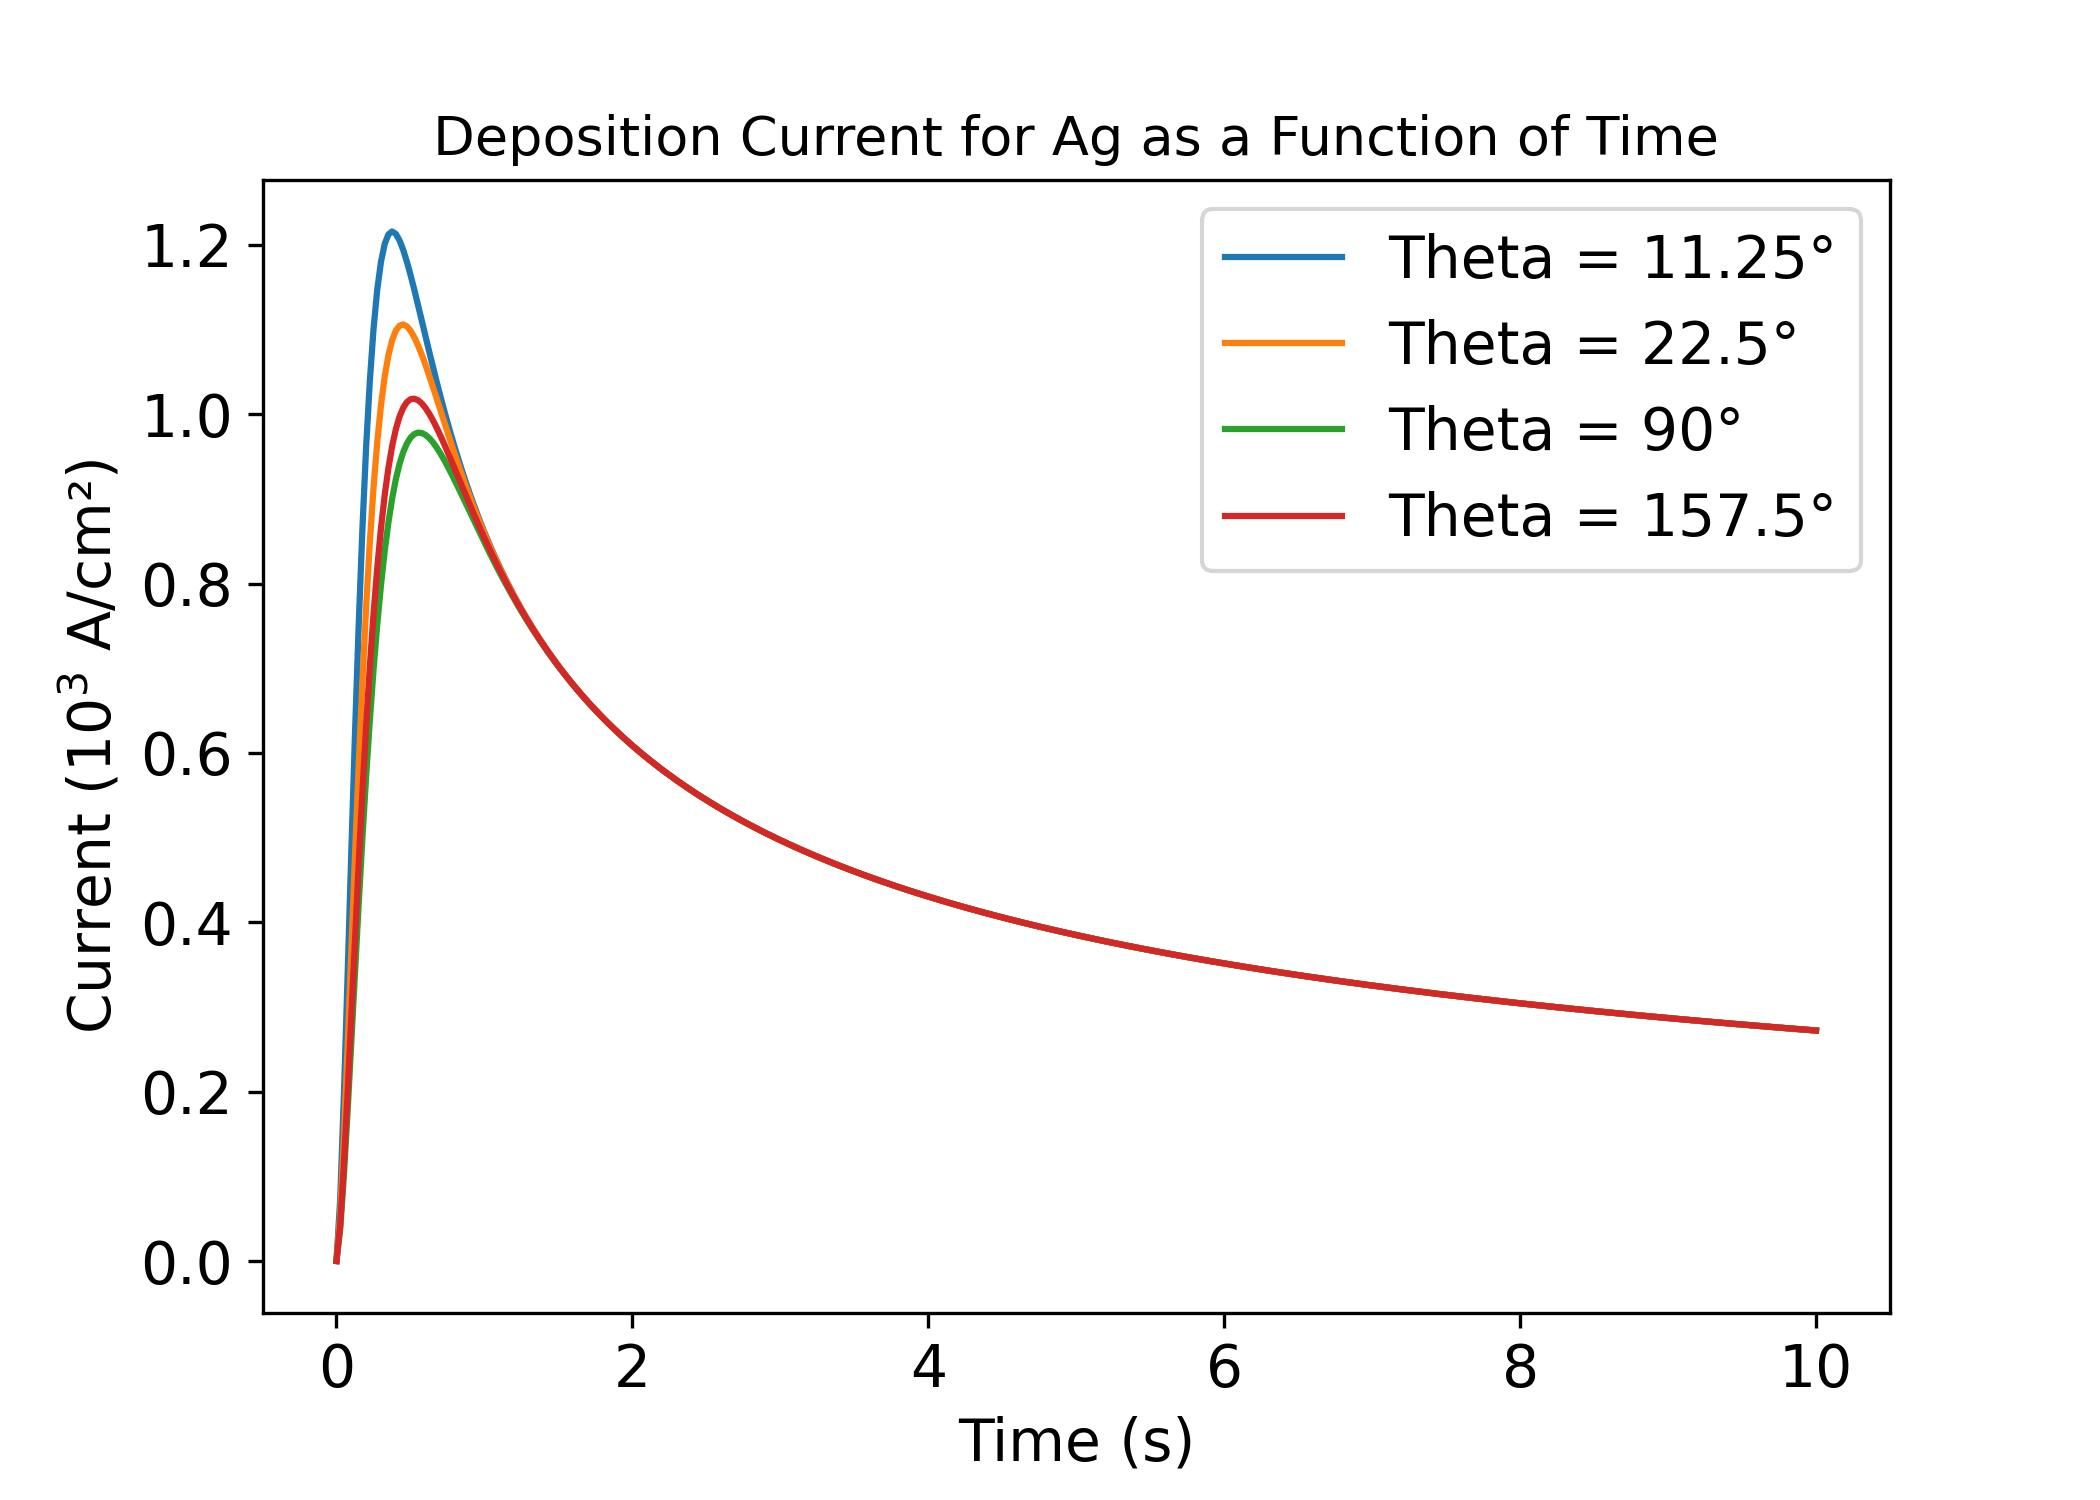
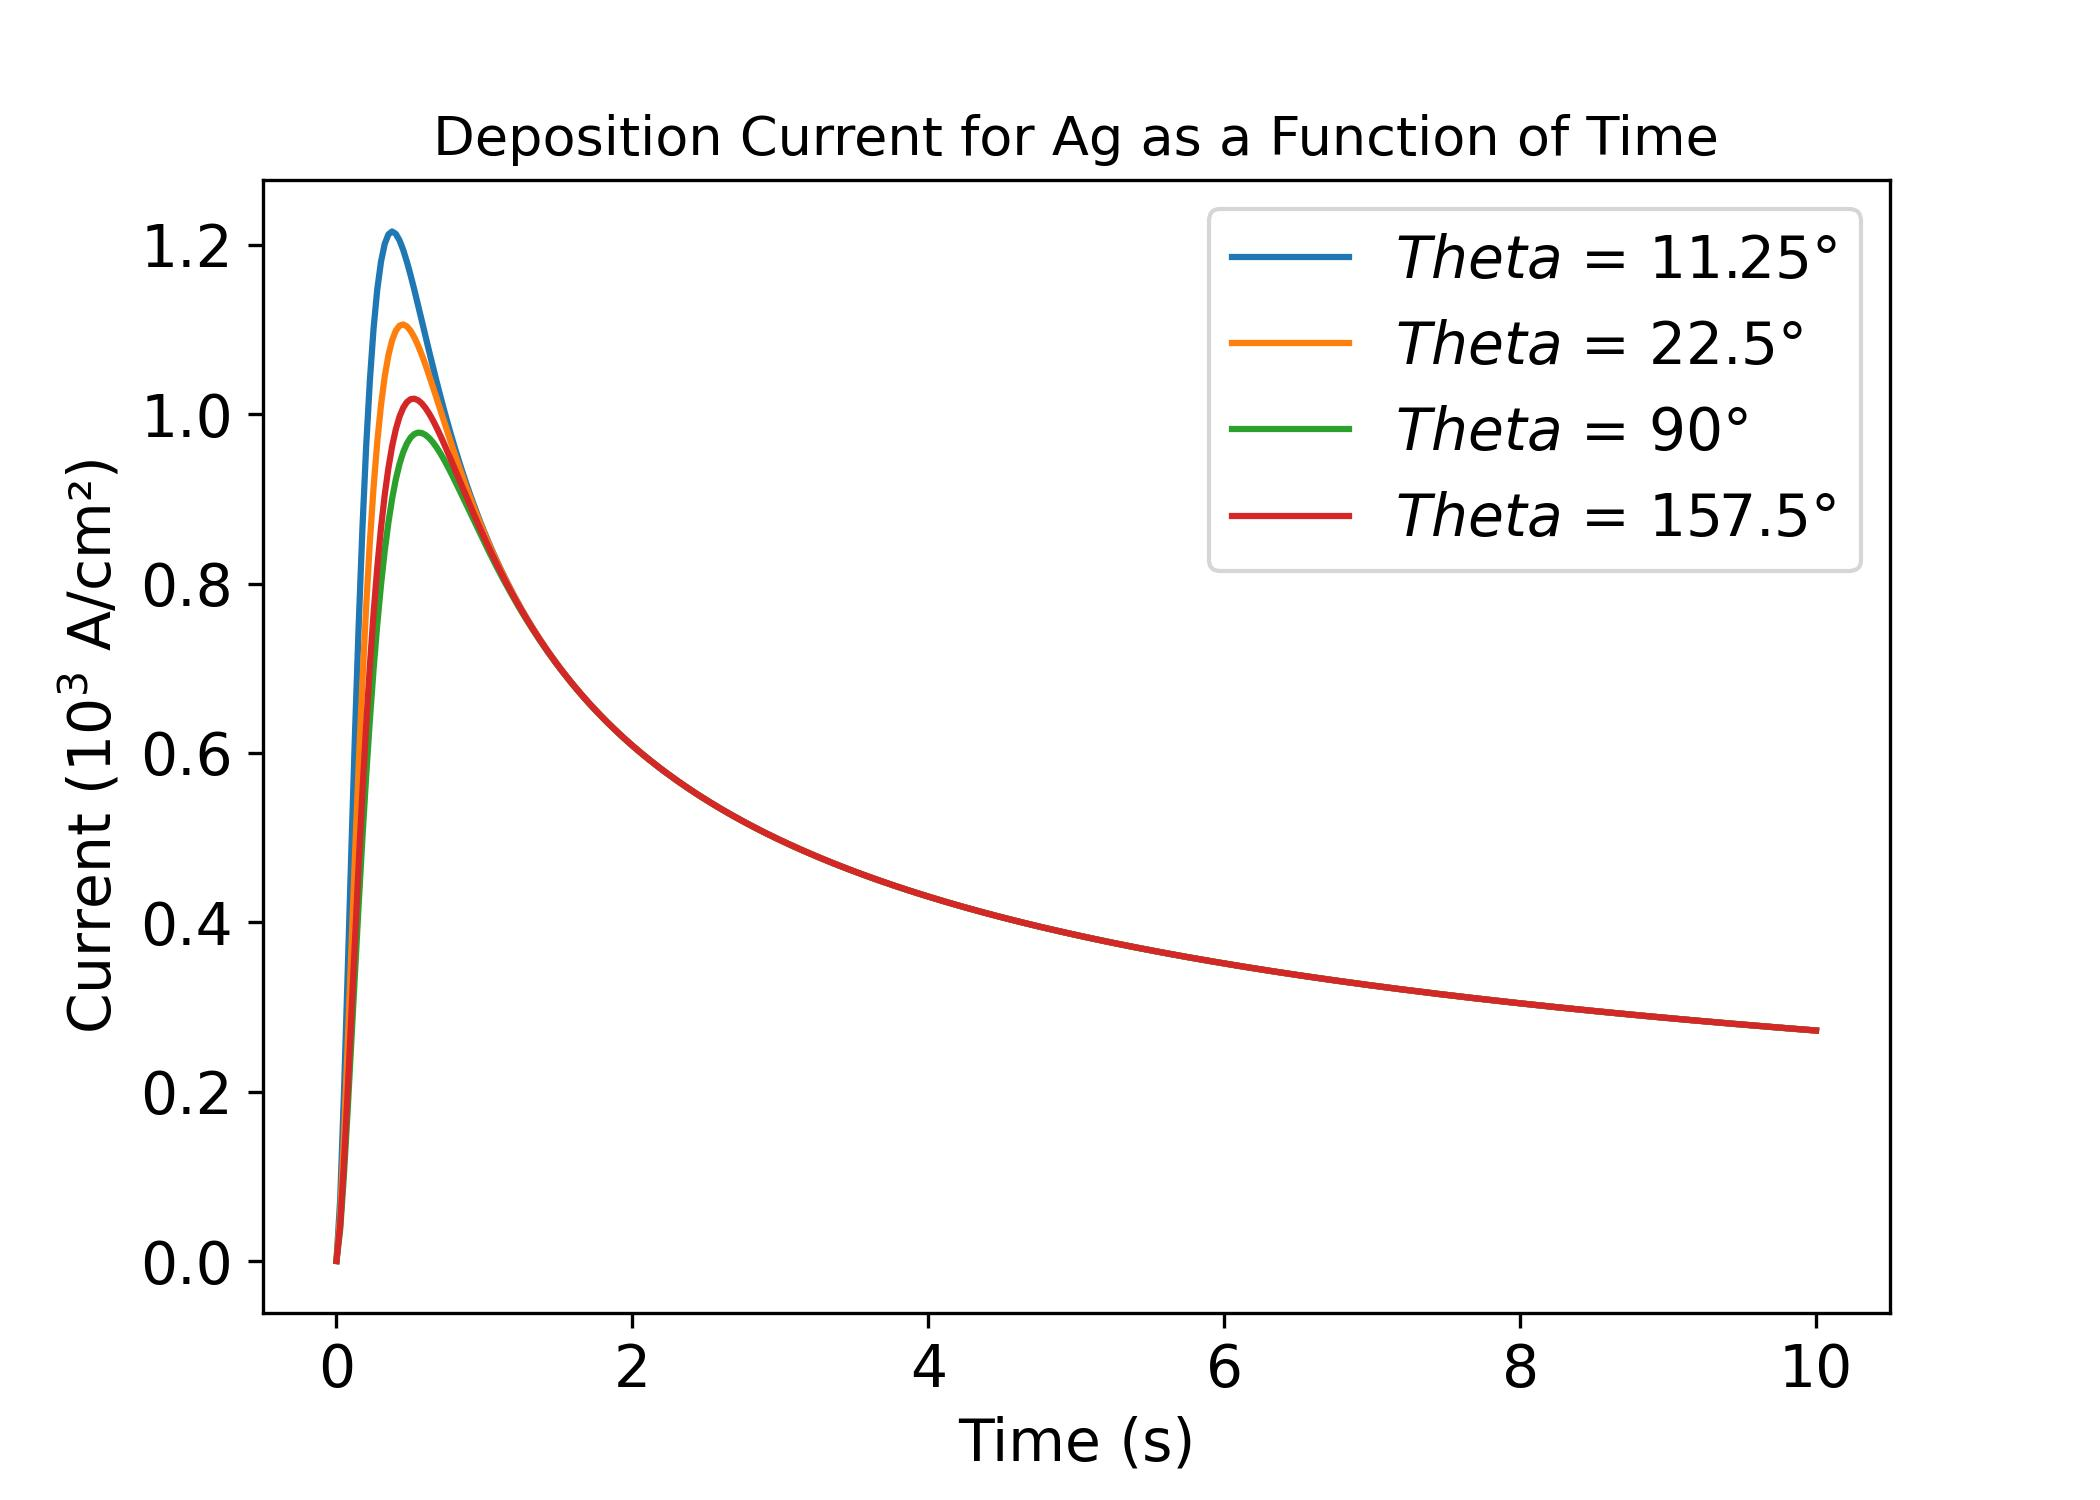
adding a few updates

diff --git a/Current_transient_AgLiMg.py b/Current_transient_AgLiMg.py
@@ -102,7 +102,7 @@ for element in elements_to_plot:
     plt.figure(figsize=(7, 5))
     for theta, theta_rad in zip(theta_degrees, theta_radians):
         current = [compute_current_eq15(element, theta_rad, t) for t in t_values]
-        plt.plot(t_values, np.array(current) * 1e3, label=f"Theta = {theta}°")
+        plt.plot(t_values, np.array(current) * 1e3, label=f"$Theta$ = {theta}°")
 
     plt.xlabel("Time (s)", fontsize=14)
     plt.ylabel(r"Current ($10^3$ A/cm²)", fontsize=14)
